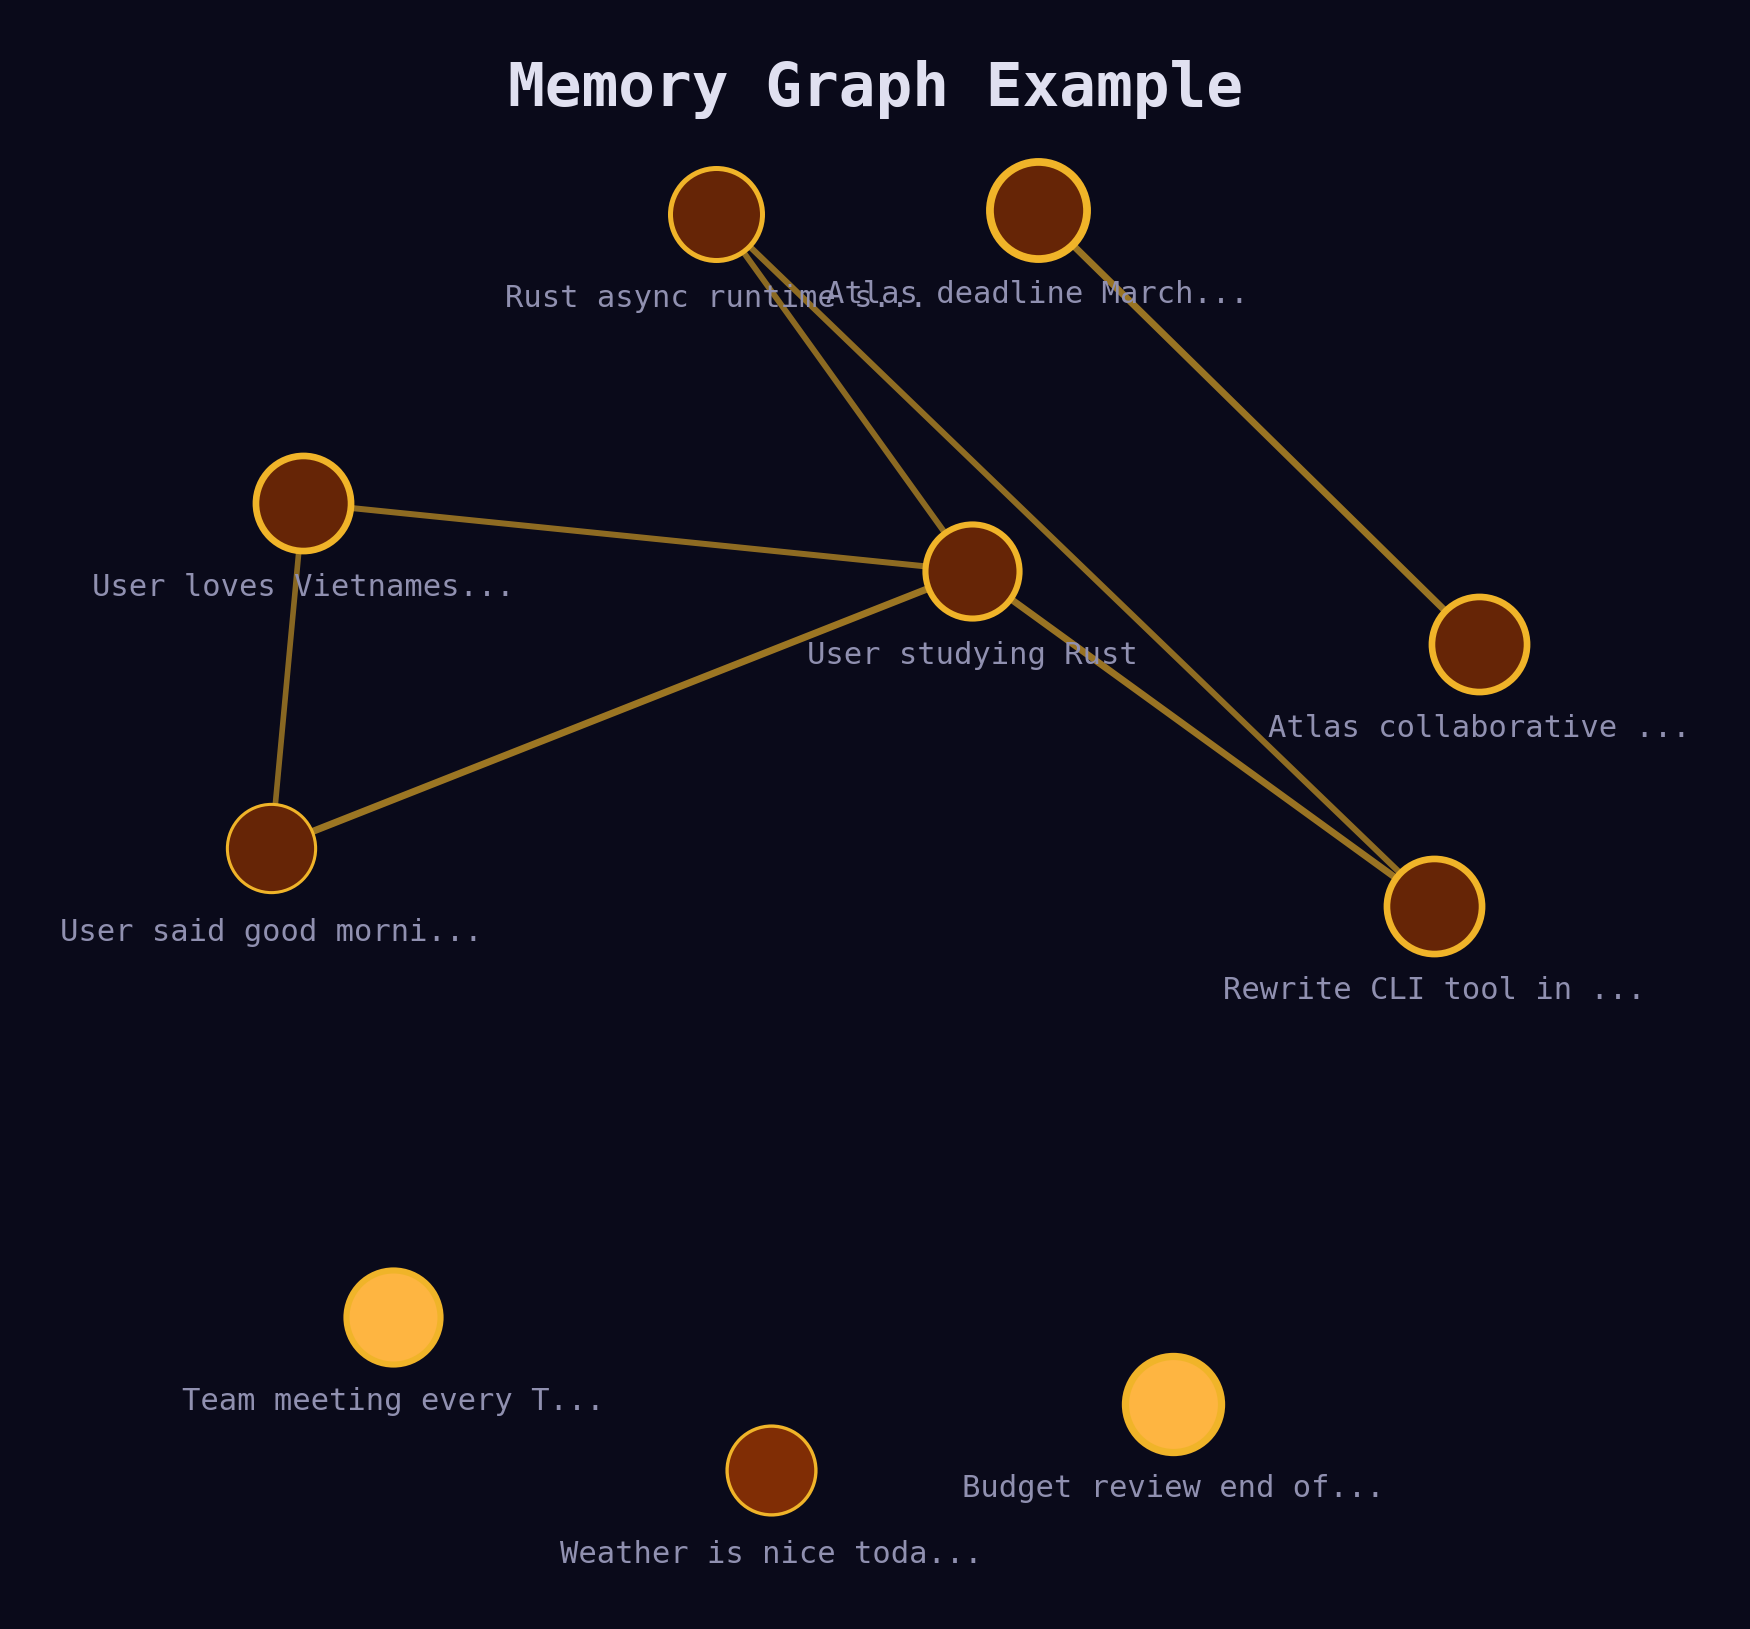
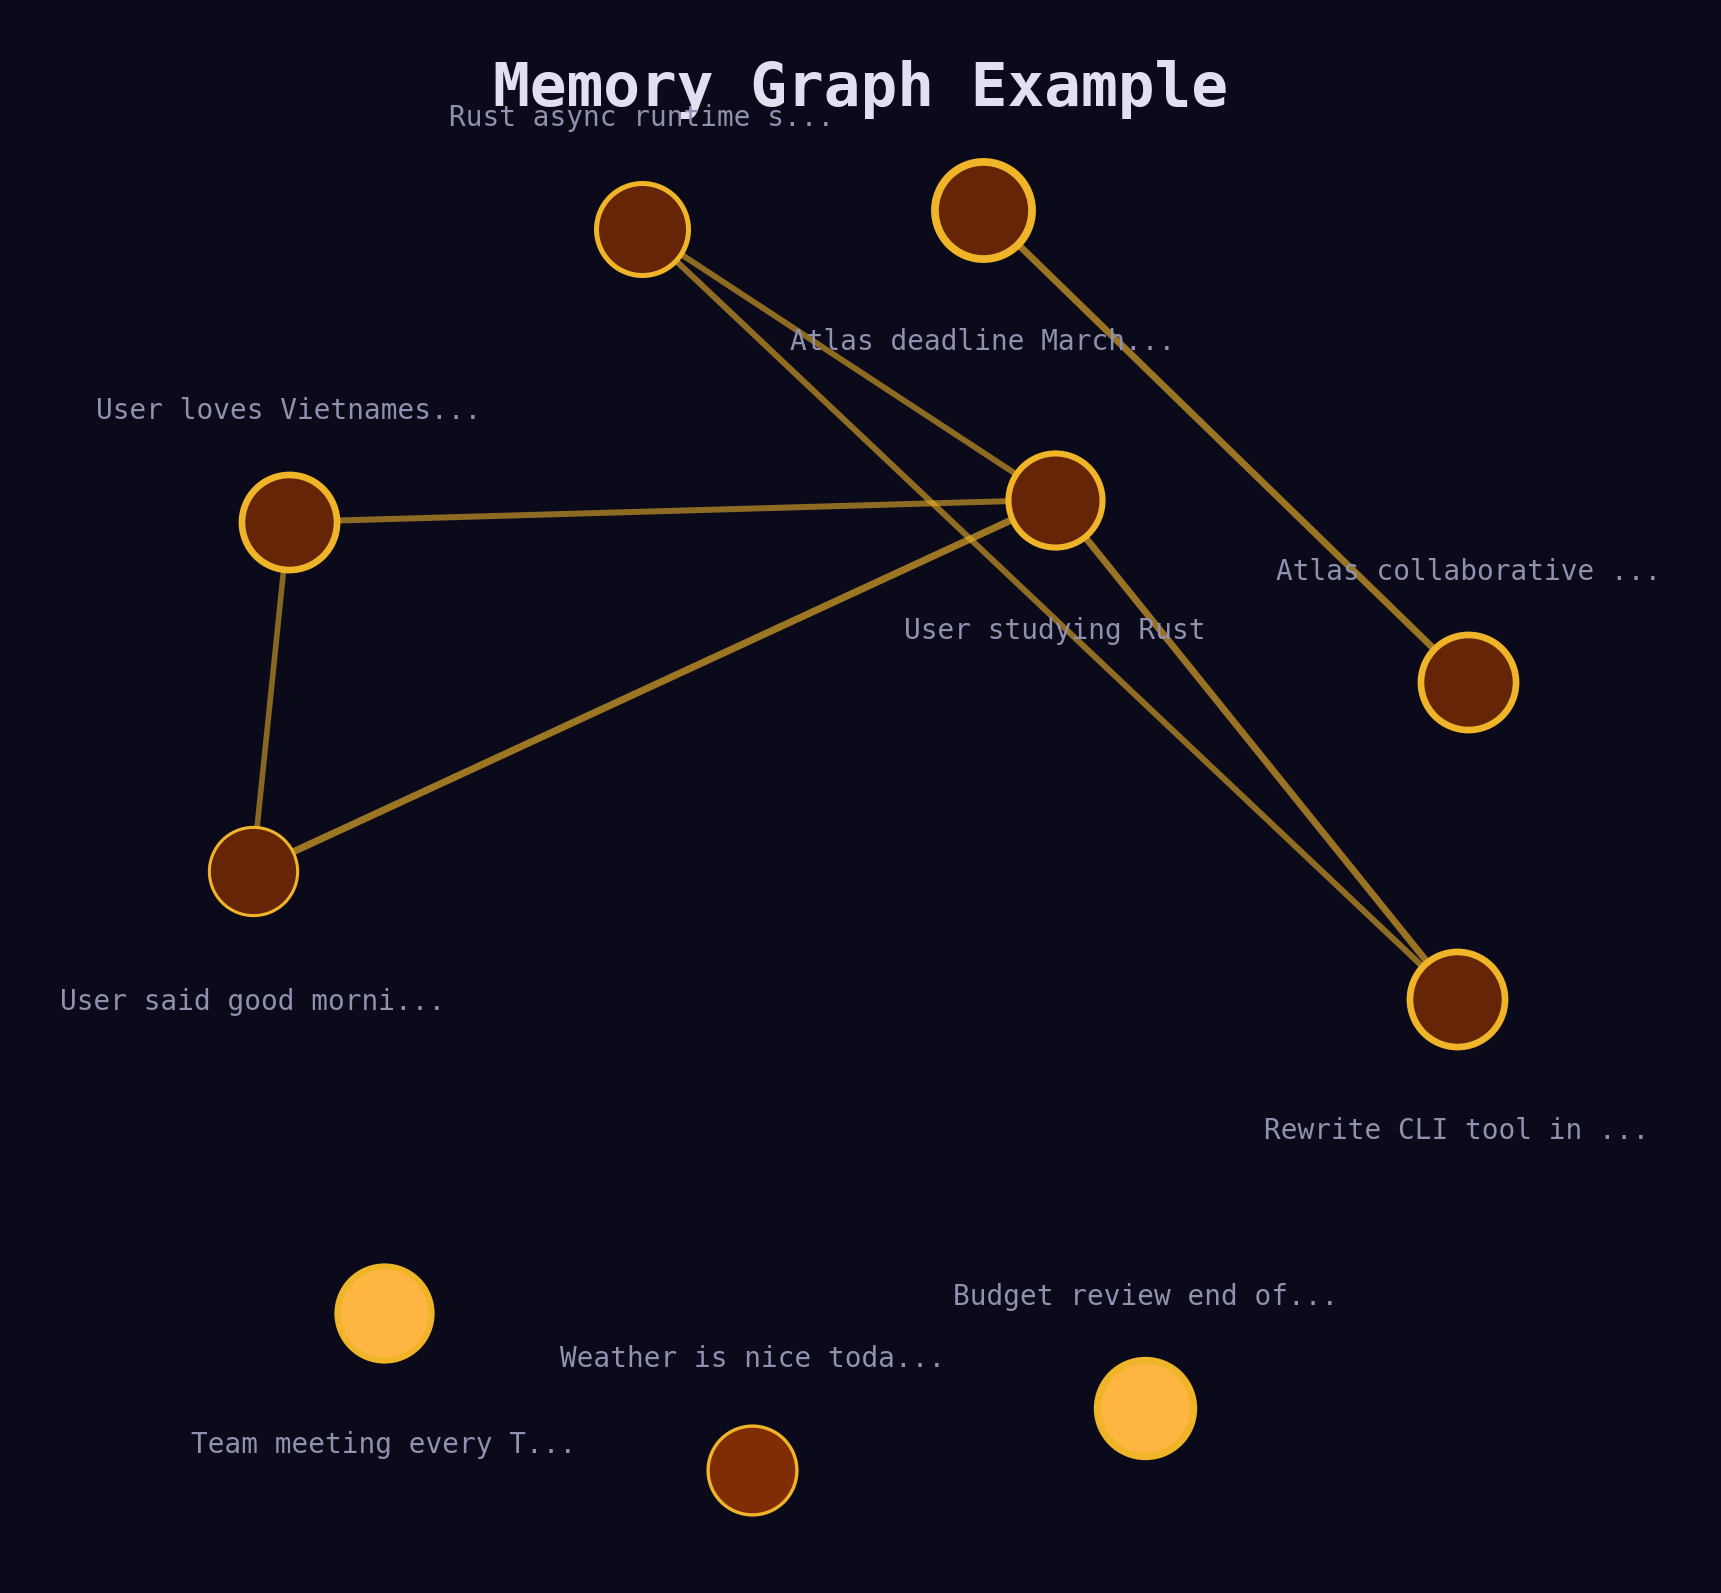
Fix graph_example.png and x_thread_3.png
- graph_example: increased spring layout k=3.5, alternating label
  placement above/below nodes to prevent overlap
- x_thread_3: moved subtitle higher, separated from pip install text

diff --git a/scripts/generate_assets.py b/scripts/generate_assets.py
@@ -664,7 +664,7 @@ def gen_graph_example() -> None:
     ax.set_aspect("equal")
     ax.axis("off")
 
-    pos = nx.spring_layout(g, seed=42, k=2.5, iterations=80)
+    pos = nx.spring_layout(g, seed=42, k=3.5, iterations=100)
 
     # Edges
     for u, v, d in g.edges(data=True):
@@ -679,8 +679,9 @@ def gen_graph_example() -> None:
             zorder=1,
         )
 
-    # Nodes + labels
-    for nid in g.nodes():
+    # Nodes + labels (alternate above/below to avoid overlap)
+    node_ids = list(g.nodes())
+    for idx, nid in enumerate(node_ids):
         d = ndata[nid]
         act = d["act"]
         col = plt.cm.YlOrBr(  # type: ignore[attr-defined]
@@ -697,12 +698,16 @@ def gen_graph_example() -> None:
             linewidths=1 + d["imp"] * 2,
             zorder=3,
         )
+        # Alternate label above/below node
+        offset = -0.18 if idx % 2 == 0 else 0.15
+        va = "top" if offset < 0 else "bottom"
         ax.text(
             pos[nid][0],
-            pos[nid][1] - 0.14,
+            pos[nid][1] + offset,
             d["label"],
-            fontsize=11,
+            fontsize=10,
             ha="center",
+            va=va,
             color=C["text2"],
             zorder=4,
         )
@@ -1086,15 +1091,6 @@ def gen_x_thread_3() -> None:
         fontweight="bold",
         pad=20,
     )
-    ax.text(
-        0.5,
-        -0.10,
-        "Precision@K across 4 synthetic scenarios",
-        fontsize=16,
-        color=C["text2"],
-        ha="center",
-        transform=ax.transAxes,
-    )
     ax.legend(
         loc="lower right",
         fontsize=16,
@@ -1109,9 +1105,17 @@ def gen_x_thread_3() -> None:
 
     fig.text(
         0.5,
+        0.08,
+        "Precision@K | 4 synthetic scenarios",
+        fontsize=12,
+        color=C["text_dim"],
+        ha="center",
+    )
+    fig.text(
+        0.5,
         0.02,
         "pip install hebbmem",
-        fontsize=22,
+        fontsize=20,
         color=C["gold"],
         ha="center",
         family="monospace",
